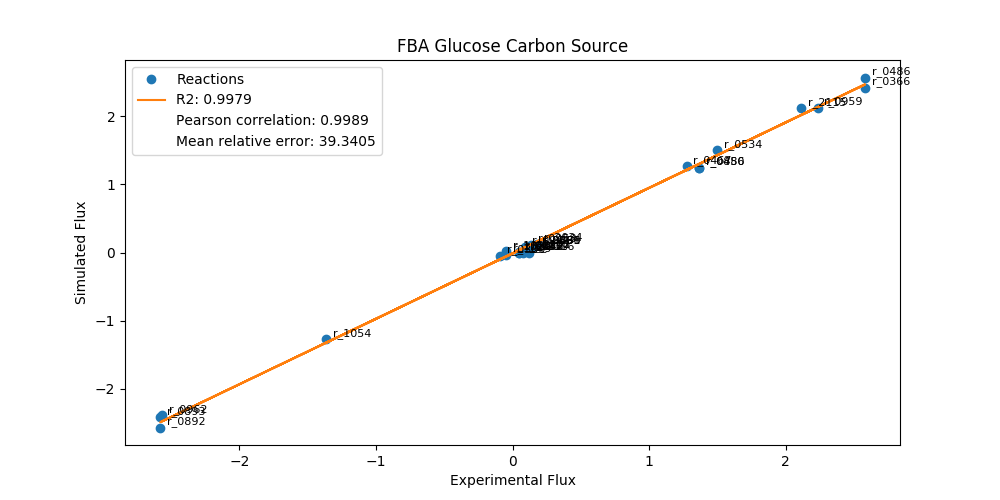
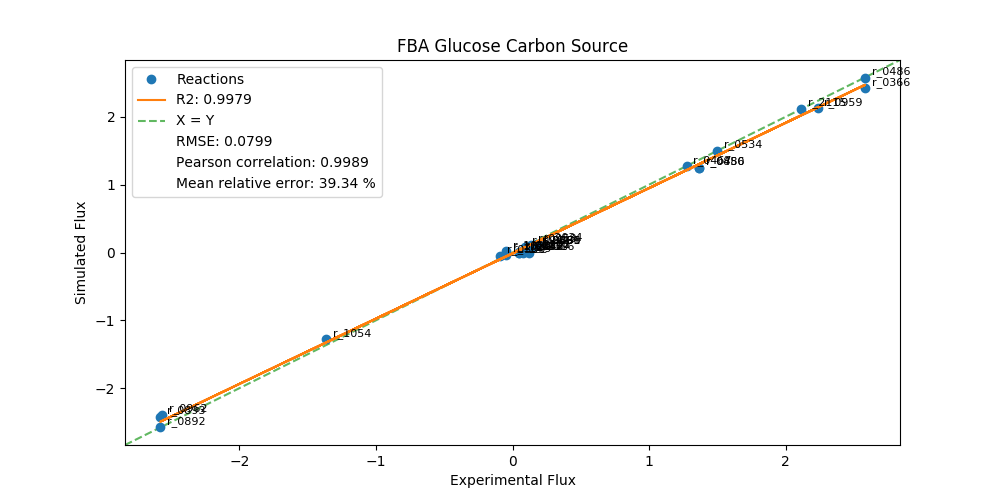
Updated case 8 results.

diff --git a/case_8.py b/case_8.py
@@ -101,30 +101,30 @@ class Case8 (PhenomenalySim):
 
         return res, df_exp_sim, df_exp_sim_errors
 
-    def plotExpVsSim (self, absRelErrorDataset, xlab = 'Experimental Flux', ylab = 'Simulated Flux', title = 'Wild Type', label_adjust = 0.05, save_fig_path = None):
-        plt.rcParams["figure.figsize"] = (10,5)
-
-        x = absRelErrorDataset.ix[:,0]
-        y = absRelErrorDataset.ix[:,1]
-        react_IDs = list(absRelErrorDataset.index)
-        slope, intercept, r_value, p_value, std_err = linregress(x, y)
-        line = [slope * x + intercept for x in x]
-        meanRelErr = absRelErrorDataset.ix[:,3].mean()
-        corr = x.corr(y)
-
-        plt.plot(x, y, 'o', x, line)
-        for ind, react_ID in enumerate(react_IDs):
-            plt.annotate(react_ID, (x[ind], y[ind]), fontsize = 8, xytext = (x[ind] + label_adjust, y[ind] + label_adjust))
-
-        plt.ylabel(ylab)
-        plt.xlabel(xlab)
-        plt.title(title)
-        plt.plot([], [], ' ') # To show correlation in legend
-        plt.plot([], [], ' ') # To show mean relative error in legend
-        plt.legend(['Reactions', 'R2: %.4f' % r_value**2, 'Pearson correlation: %.4f' % corr, 'Mean relative error: %.4f' % meanRelErr])
-
-        if save_fig_path is not None:
-            plt.savefig(save_fig_path)
+    # def plotExpVsSim (self, absRelErrorDataset, xlab = 'Experimental Flux', ylab = 'Simulated Flux', title = 'Wild Type', label_adjust = 0.05, save_fig_path = None):
+    #     plt.rcParams["figure.figsize"] = (10,5)
+    #
+    #     x = absRelErrorDataset.ix[:,0]
+    #     y = absRelErrorDataset.ix[:,1]
+    #     react_IDs = list(absRelErrorDataset.index)
+    #     slope, intercept, r_value, p_value, std_err = linregress(x, y)
+    #     line = [slope * x + intercept for x in x]
+    #     meanRelErr = absRelErrorDataset.ix[:,3].mean()
+    #     corr = x.corr(y)
+    #
+    #     plt.plot(x, y, 'o', x, line)
+    #     for ind, react_ID in enumerate(react_IDs):
+    #         plt.annotate(react_ID, (x[ind], y[ind]), fontsize = 8, xytext = (x[ind] + label_adjust, y[ind] + label_adjust))
+    #
+    #     plt.ylabel(ylab)
+    #     plt.xlabel(xlab)
+    #     plt.title(title)
+    #     plt.plot([], [], ' ') # To show correlation in legend
+    #     plt.plot([], [], ' ') # To show mean relative error in legend
+    #     plt.legend(['Reactions', 'R2: %.4f' % r_value**2, 'Pearson correlation: %.4f' % corr, 'Mean relative error: %.4f' % meanRelErr])
+    #
+    #     if save_fig_path is not None:
+    #         plt.savefig(save_fig_path)
 
     def testO2EthanolProd (self, g_knockout = None, react_id = 'r_2115', cs = 'glucose', range_o2 = list(np.arange(-20, 0, 2))):
         res = {}

diff --git a/case_6.py b/case_6.py
@@ -111,32 +111,6 @@ class Case6 (PhenomenalySim):
 
         return res, df_exp_sim, df_exp_sim_errors
 
-    # def plotExpVsSim (self, absRelErrorDataset, xlab = 'Experimental Flux', ylab = 'Simulated Flux', title = 'Wild Type', label_adjust = 0.05, save_fig_path = None):
-    #     plt.rcParams["figure.figsize"] = (10,5)
-    #
-    #     x = absRelErrorDataset.ix[:,0]
-    #     y = absRelErrorDataset.ix[:,1]
-    #     react_IDs = list(absRelErrorDataset.index)
-    #     slope, intercept, r_value, p_value, std_err = linregress(x, y)
-    #     line = [slope * x + intercept for x in x]
-    #     meanRelErr = absRelErrorDataset.ix[:,3].mean()
-    #     corr = x.corr(y)
-    #
-    #     plt.plot(x, y, 'o', x, line)
-    #     for ind, react_ID in enumerate(react_IDs):
-    #         plt.annotate(react_ID, (x[ind], y[ind]), fontsize = 8, xytext = (x[ind] + label_adjust, y[ind] + label_adjust))
-    #
-    #     plt.ylabel(ylab)
-    #     plt.xlabel(xlab)
-    #     plt.title(title)
-    #     plt.plot([], [], ' ') # To show correlation in legend
-    #     plt.plot([], [], ' ') # To show mean relative error in legend
-    #     plt.legend(['Reactions', 'R2: %.4f' % r_value**2, 'Pearson correlation: %.4f' % corr, 'Mean relative error: %.4f' % meanRelErr])
-    #
-    #     if save_fig_path is not None:
-    #         plt.savefig(save_fig_path)
-
-
 
 if __name__ == '__main__':
 

diff --git a/case8_jnotebook.py b/case8_jnotebook.py
@@ -203,7 +203,7 @@ pd.DataFrame(reactions).join(e_fva_exp_sim, how = 'inner')
 #Generate cells with plots
 x = sum([['g' + i, 'gal' + i, 'gly' + i, 'e' + i] for i in ['_fba', '_pfba']], [])
 for name in x:
-    vars()[name + '_plot'] = '<p style="float: center; font-size: 9pt; text-align: center; width: 80%;"><img src = "Results/Case 8/'+ name +'_exp_sim_plot.png", width = 100%></p>'
+    vars()[name + '_plot'] = '<p style="float: center; font-size: 9pt; text-align: center; width: 100%;"><img src = "Results/Case 8/'+ name +'_exp_sim_plot.png", width = 80%></p>'
 
 #List with nbformat expressions
 cs = ['g', 'gal', 'gly', 'e']
